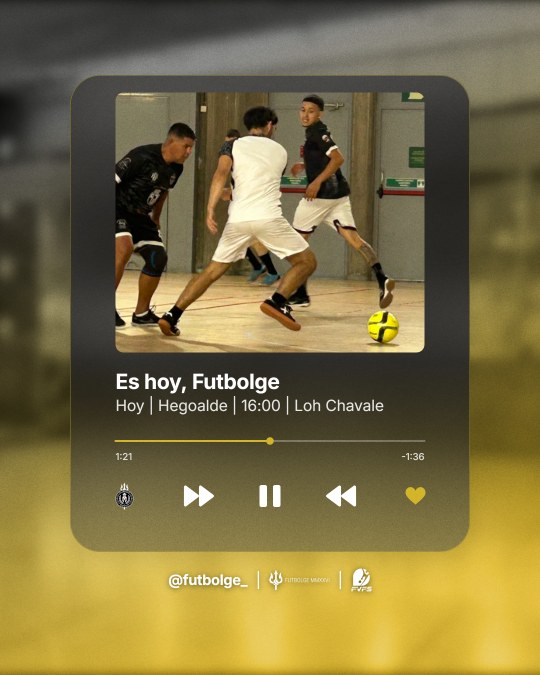
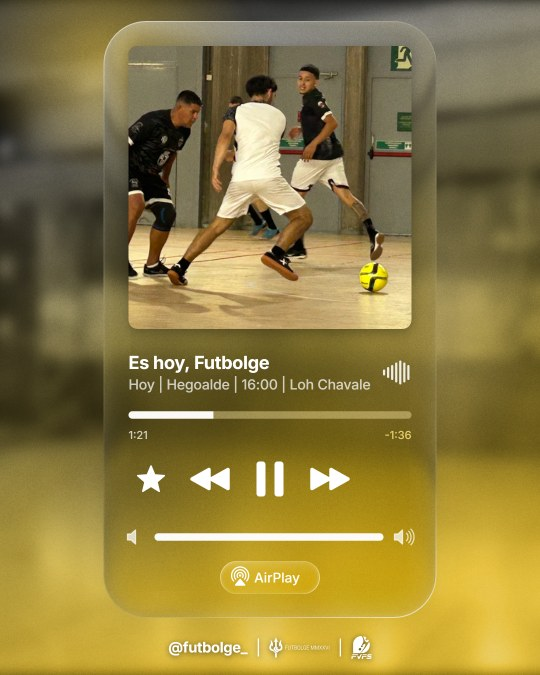
Match Day · Canción: reproductor estilo Apple Music con cristal líquido
Portada cuadrada, ecualizador, barra de progreso en cápsula, controles de
iOS con estrella, volumen y botón AirPlay. La tarjeta y el botón son de
cristal líquido: fondo refractado con labio en el borde y filo especular
suave. Datos del partido: Hegoalde, 16:00, Loh Chavale.

diff --git a/js/designs/match-day-cancion.js b/js/designs/match-day-cancion.js
@@ -1,16 +1,20 @@
 /**
  * DISEÑO · MATCH DAY · CANCIÓN
- * El partido como si fuera la canción que suena: tarjeta de cristal estilo reproductor
- * (foto, título, barra de progreso y controles) sobre el polideportivo desenfocado, en dorado y negro como el escudo.
+ * El partido como si fuera la canción que suena: tarjeta de cristal como el reproductor de Apple Music
+ * (portada, título, progreso, controles, volumen y AirPlay) sobre el polideportivo desenfocado,
+ * en dorado y negro como el escudo.
  */
-import { use, f, text, fit, contain, rr, slug, WHITE, GOLD } from "../core/draw.js";
+import { use, f, text, fit, rr, slug, WHITE } from "../core/draw.js";
 import { blurred, drawToned, FILTER_OK } from "../core/fx.js";
-import { grain } from "../core/canvas.js";
+import { grain, makeCanvas } from "../core/canvas.js";
 
 const W = 1080, H = 1350;
-const CARD = { x: 140, y: 150, w: 800, h: 954, r: 60 };
-const PHOTO = { x: 231, y: 185, w: 618, h: 520, r: 16 };
+const CARD = { x: 207, y: 42, w: 666, h: 1194, r: 86 };
+const PHOTO = { x: 257, y: 92, w: 566, h: 566, r: 18 };
+const L = PHOTO.x, R = PHOTO.x + PHOTO.w, CX = W / 2;
 const INTER = '"Inter", "Montserrat", system-ui, sans-serif';
+const DIM = "rgba(255,255,255,.72)";          // gris translúcido de los textos secundarios
+const TINT = "rgba(244,220,120,.9)";          // el tiempo restante toma el color del fondo, como en iOS
 
 // imágenes pasadas a blanco (firma dorada, logos de color…), cacheadas por imagen
 const whites = new WeakMap();
@@ -28,42 +32,137 @@ function drawBg(ctx, bg, px, tone){
   else blurred(ctx, px, () => drawToned(ctx, bg.img, tone, bg.x, bg.y, bg.w, bg.h));
 }
 
-/* ---------- iconos del reproductor (blancos, con esquinas suaves) ---------- */
-function softFill(ctx, path){
-  ctx.save(); ctx.fillStyle = ctx.strokeStyle = WHITE; ctx.lineWidth = 6; ctx.lineJoin = "round";
+/* mancha de color difusa (los brillos que se cuelan por el cristal) */
+function glow(ctx, x, y, rx, ry, color){
+  ctx.save(); ctx.translate(x, y); ctx.scale(rx / 100, ry / 100);
+  const g = ctx.createRadialGradient(0, 0, 0, 0, 0, 100);
+  g.addColorStop(0, color); g.addColorStop(1, color.replace(/[\d.]+\)$/, "0)"));
+  ctx.fillStyle = g; ctx.fillRect(-100, -100, 200, 200); ctx.restore();
+}
+
+/* ---------- cristal líquido (Liquid Glass de iOS) ----------
+   Como el reproductor de Apple: el fondo se ve muy desenfocado, más luminoso y con los colores
+   avivados (cristal lechoso); en el borde hay un bisel grueso más claro donde el fondo se curva
+   (refracción) y un filo fino y brillante que destaca en las esquinas donde da la luz.
+   `src` es el fondo ya pintado (lienzo W×H). */
+function glass(ctx, src, x, y, w, h, r, o){
+  const cx = x + w / 2, cy = y + h / 2;
+  const sample = (z, b) => {
+    ctx.save(); if (FILTER_OK) ctx.filter = `blur(${b}px) saturate(1.45) brightness(1.06)`;
+    ctx.drawImage(src, cx - cx * z, cy - cy * z, W * z, H * z); ctx.restore();
+  };
+  ctx.save(); rr(x, y, w, h, r); ctx.clip();
+  sample(o.zoom, o.blur);
+  // labio del borde: anillos cada vez más ampliados (el fondo se estira hacia fuera, como en una lente)
+  // y más claros, sobre todo pegados al filo
+  const n = 28, band = o.edge / n;
+  for (let i = 0; i < n; i++){
+    const a = i * band, b = a + band, t = (n - i) / n;
+    ctx.save(); ctx.beginPath();
+    ctx.roundRect(x + a, y + a, w - a * 2, h - a * 2, Math.max(0, r - a));
+    ctx.roundRect(x + b, y + b, w - b * 2, h - b * 2, Math.max(0, r - b));
+    ctx.clip("evenodd");
+    sample(o.zoom + o.bend * t * t, o.blur * .5);
+    ctx.fillStyle = `rgba(255,255,255,${.01 + .08 * t ** 2.4})`; ctx.fillRect(x, y, w, h);
+    ctx.restore();
+  }
+  // velo lechoso y, encima, un tono neutro para que el texto blanco se lea
+  ctx.fillStyle = "rgba(255,255,255,.06)"; ctx.fillRect(x, y, w, h);
+  ctx.fillStyle = o.tint; ctx.fillRect(x, y, w, h);
+  const sh = ctx.createLinearGradient(0, y, 0, y + h);
+  sh.addColorStop(0, "rgba(255,255,255,.12)"); sh.addColorStop(.4, "rgba(255,255,255,0)");
+  ctx.fillStyle = sh; ctx.fillRect(x, y, w, h);
+  // resplandor interior junto al borde, más fuerte arriba a la izquierda y abajo a la derecha
+  const glowW = Math.min(w, h) * .07;
+  const ig = ctx.createLinearGradient(x, y, x + w, y + h);
+  ig.addColorStop(0, "rgba(255,255,255,.16)"); ig.addColorStop(.3, "rgba(255,255,255,.02)");
+  ig.addColorStop(.7, "rgba(255,255,255,.02)"); ig.addColorStop(1, "rgba(255,255,255,.14)");
+  ctx.save(); if (FILTER_OK) ctx.filter = `blur(${glowW * .5}px)`;
+  ctx.strokeStyle = ig; ctx.lineWidth = glowW; rr(x, y, w, h, r); ctx.stroke(); ctx.restore();
+  ctx.restore();
+  // filo especular: nítido y muy brillante en las esquinas donde da la luz, casi invisible en los lados,
+  // con un halo suave debajo
+  const rim = ctx.createLinearGradient(x, y, x + w, y + h);
+  rim.addColorStop(0, "rgba(255,255,255,.55)"); rim.addColorStop(.16, "rgba(255,255,255,.16)");
+  rim.addColorStop(.5, "rgba(255,255,255,.06)"); rim.addColorStop(.84, "rgba(255,255,255,.16)"); rim.addColorStop(1, "rgba(255,255,255,.7)");
+  const lw = o.rim || 2;
+  ctx.save(); rr(x, y, w, h, r); ctx.clip(); if (FILTER_OK) ctx.filter = `blur(${lw * 2}px)`; ctx.globalAlpha = .25;
+  ctx.strokeStyle = rim; ctx.lineWidth = lw * 3; rr(x + lw, y + lw, w - lw * 2, h - lw * 2, r - lw); ctx.stroke(); ctx.restore();
+  ctx.strokeStyle = rim; ctx.lineWidth = lw; rr(x + lw / 2, y + lw / 2, w - lw, h - lw, r - lw / 2); ctx.stroke();
+}
+
+/* ---------- iconos del reproductor (como los de iOS: macizos y con esquinas suaves) ---------- */
+function softFill(ctx, path, color = WHITE, round = 7){
+  ctx.save(); ctx.fillStyle = ctx.strokeStyle = color; ctx.lineWidth = round; ctx.lineJoin = "round";
   path(); ctx.fill(); ctx.stroke(); ctx.restore();
 }
-/* dos triángulos seguidos; dir = 1 apunta a la derecha (avanzar), -1 a la izquierda (retroceder) */
+/* dos triángulos seguidos; dir = 1 avanzar, -1 retroceder */
 function skip(ctx, cx, cy, dir){
-  const tw = 30, th = 42 / 2 - 3;
+  const tw = 38, th = 19;
   softFill(ctx, () => {
     ctx.beginPath();
     for (const k of [-1, 0]){
-      const x0 = cx + dir * (k * tw + 3), x1 = x0 + dir * (tw - 6);
+      const x0 = cx + dir * (k * tw + 3), x1 = x0 + dir * (tw - 4);
       ctx.moveTo(x0, cy - th); ctx.lineTo(x1, cy); ctx.lineTo(x0, cy + th); ctx.closePath();
     }
   });
 }
 function pause(ctx, cx, cy){
   ctx.fillStyle = WHITE;
-  for (const x of [cx - 21, cx + 6]){ rr(x, cy - 22, 15, 44, 4); ctx.fill(); }
+  for (const x of [cx - 27, cx + 9]){ rr(x, cy - 35, 18, 70, 6); ctx.fill(); }
 }
-function heart(ctx, cx, cy, s, color = WHITE){
-  ctx.save(); ctx.translate(cx, cy); ctx.scale(s / 32, s / 32); ctx.fillStyle = color;
+/* estrella de favoritos, rellena (marcada) y con las puntas suaves */
+function star(ctx, cx, cy, R){
+  ctx.save(); ctx.fillStyle = ctx.strokeStyle = WHITE; ctx.lineWidth = 3; ctx.lineJoin = "round";
   ctx.beginPath();
-  ctx.moveTo(0, 13);
-  ctx.bezierCurveTo(-4, 9, -16, 1, -16, -6); ctx.bezierCurveTo(-16, -12, -12, -15, -8, -15);
-  ctx.bezierCurveTo(-4, -15, -1, -12, 0, -9); ctx.bezierCurveTo(1, -12, 4, -15, 8, -15);
-  ctx.bezierCurveTo(12, -15, 16, -12, 16, -6); ctx.bezierCurveTo(16, 1, 4, 9, 0, 13);
-  ctx.fill(); ctx.restore();
+  for (let i = 0; i < 10; i++){
+    const a = -Math.PI / 2 + i * Math.PI / 5, rad = i % 2 ? R * .45 : R;
+    ctx.lineTo(cx + Math.cos(a) * rad, cy + Math.sin(a) * rad);
+  }
+  ctx.closePath(); ctx.fill(); ctx.stroke(); ctx.restore();
 }
+/* barras de ecualizador junto al título (la canción está sonando) */
+function waveform(ctx, right, cy){
+  const hs = [12, 22, 30, 40, 48, 40, 30], bw = 4.5, gap = 3.6;
+  let x = right - hs.length * (bw + gap) + gap;
+  ctx.fillStyle = "rgba(255,255,255,.88)";
+  hs.forEach(h => { rr(x, cy - h / 2, bw, h, bw / 2); ctx.fill(); x += bw + gap; });
+}
+/* altavoz con 0, 1 o 3 ondas */
+function speaker(ctx, cx, cy, waves){
+  ctx.save(); ctx.fillStyle = ctx.strokeStyle = DIM; ctx.lineJoin = "round"; ctx.lineWidth = 2.5;
+  ctx.beginPath(); ctx.moveTo(cx - 12, cy - 6); ctx.lineTo(cx - 5, cy - 6); ctx.lineTo(cx + 4, cy - 14); ctx.lineTo(cx + 4, cy + 14); ctx.lineTo(cx - 5, cy + 6); ctx.lineTo(cx - 12, cy + 6); ctx.closePath();
+  ctx.fill(); ctx.stroke();
+  ctx.lineCap = "round";
+  for (let i = 1; i <= waves; i++){ ctx.beginPath(); ctx.arc(cx + 4, cy, 5 + i * 6, -Math.PI / 4.2, Math.PI / 4.2); ctx.stroke(); }
+  ctx.restore();
+}
+/* icono de AirPlay: ondas concéntricas con un triángulo debajo */
+function airplay(ctx, cx, cy){
+  ctx.save(); ctx.strokeStyle = ctx.fillStyle = WHITE; ctx.lineWidth = 2.6; ctx.lineCap = "round";
+  for (const r of [6, 11.5, 17]){ ctx.beginPath(); ctx.arc(cx, cy - 2, r, Math.PI * .78, Math.PI * 2.22); ctx.stroke(); }
+  ctx.beginPath(); ctx.arc(cx, cy - 2, 2.4, 0, Math.PI * 2); ctx.fill();
+  softFill(ctx, () => { ctx.beginPath(); ctx.moveTo(cx, cy + 6); ctx.lineTo(cx + 9, cy + 17); ctx.lineTo(cx - 9, cy + 17); ctx.closePath(); }, WHITE, 3);
+  ctx.restore();
+}
+/* barra en cápsula: parte llena en blanco y el resto translúcido */
+function capsule(ctx, x0, x1, y, h, p, rest){
+  rr(x0, y - h / 2, x1 - x0, h, h / 2); ctx.fillStyle = rest; ctx.fill();
+  const xf = x0 + (x1 - x0) * p;
+  if (xf > x0){
+    ctx.save(); rr(x0, y - h / 2, x1 - x0, h, h / 2); ctx.clip();
+    ctx.fillStyle = "rgba(255,255,255,.95)"; ctx.fillRect(x0, y - h / 2, xf - x0, h);
+    ctx.restore();
+  }
+}
+const pct = v => Math.min(1, Math.max(0, (Number(v) || 0) / 100));
 
 export default {
   id: "match-day-cancion",
   name: "Match Day",
   variant: "Canción",
   category: "Día de partido",
-  description: "El partido como la canción que suena: reproductor de cristal sobre el polideportivo desenfocado.",
+  description: "El partido como la canción que suena: reproductor de cristal estilo Apple Music sobre el polideportivo desenfocado.",
   thumb: "assets/thumbs/match-day-cancion.jpg",
   size: { w: W, h: H },
   filename: v => `match_day_cancion_${slug(v.rival)}.png`,
@@ -82,20 +181,21 @@ export default {
         { type: "text", id: "rival", label: "Rival", value: "Loh Chavale" }
       ]},
       { type: "hint", text: "El subtítulo une Día | Lugar | Hora | Rival; deja un campo vacío para quitarlo." },
-      { type: "range", id: "progress", label: "Progreso de la canción", value: 50, min: 0, max: 100 },
+      { type: "range", id: "progress", label: "Progreso de la canción", value: 30, min: 0, max: 100 },
       { type: "row", fields: [
         { type: "text", id: "tA", label: "Tiempo izquierda", value: "1:21" },
         { type: "text", id: "tR", label: "Tiempo derecha", value: "-1:36" }
-      ]}
+      ]},
+      { type: "range", id: "volume", label: "Volumen", value: 100, min: 0, max: 100 },
+      { type: "text", id: "pill", label: "Botón de abajo", value: "AirPlay" }
     ]},
     { type: "section", title: "Fotos", fields: [
-      { type: "photo", id: "photo", label: "Foto de la canción", src: "assets/fotos/jugada_pista.png",
-        area: () => PHOTO,
-        defaultFrame: (img, a, cover) => ({ zoom: 1, ox: a.x + (a.w - img.width * cover) / 2, oy: a.y + a.h * .5 - img.height * cover * .48 }) },
+      { type: "photo", id: "photo", label: "Foto de la canción (portada)", src: "assets/fotos/jugada_pista.png",
+        area: () => PHOTO },
       { type: "photo", id: "bg", label: "Fondo (polideportivo)", src: "assets/fotos/polideportivo.jpg",
         area: () => ({ x: 0, y: 0, w: W, h: H }),
         defaultFrame: (img, a, cover) => ({ zoom: 1, ox: a.w * .5 - img.width * cover * .62, oy: 0 }) },
-      { type: "range", id: "bgBlur", label: "Desenfoque del fondo", value: 12, min: 0, max: 40 },
+      { type: "range", id: "bgBlur", label: "Desenfoque del fondo", value: 14, min: 0, max: 40 },
       { type: "range", id: "warm", label: "Tono dorado", value: 70, min: 0, max: 100 }
     ]},
     { type: "section", title: "Escudo y pie", collapsed: true, fields: [
@@ -113,90 +213,105 @@ export default {
     const v = m.values, I = m.images, warm = (Number(v.warm) || 0) / 100;
     const bg = m.photo("bg");
 
-    // fondo: polideportivo desenfocado, en blanco y negro oscurecido y con un degradado dorado hacia abajo
-    ctx.fillStyle = "#1a1810"; ctx.fillRect(0, 0, W, H);
-    if (bg) drawBg(ctx, bg, Number(v.bgBlur) || 0, "grayscale(1) contrast(1.05)");
-    const dk = ctx.createLinearGradient(0, 0, 0, H);
+    // fondo en un lienzo aparte: se pinta tal cual y el cristal lo vuelve a usar para refractarlo
+    const B = makeCanvas(W, H, ctx.__q || 1), g = B.ctx;
+    // polideportivo desenfocado, en blanco y negro oscurecido y con un degradado dorado hacia abajo
+    g.fillStyle = "#1a1810"; g.fillRect(0, 0, W, H);
+    if (bg) drawBg(g, bg, Number(v.bgBlur) || 0, "grayscale(1) contrast(1.05)");
+    const dk = g.createLinearGradient(0, 0, 0, H);
     dk.addColorStop(0, "rgba(8,8,6,.5)"); dk.addColorStop(.6, "rgba(8,8,6,.3)"); dk.addColorStop(1, "rgba(8,8,6,0)");
-    ctx.fillStyle = dk; ctx.fillRect(0, 0, W, H);
-    const wg = ctx.createLinearGradient(0, H * .2, W * .35, H);
+    g.fillStyle = dk; g.fillRect(0, 0, W, H);
+    const wg = g.createLinearGradient(0, H * .2, W * .35, H);
     wg.addColorStop(0, "rgba(211,181,42,0)"); wg.addColorStop(.5, `rgba(211,181,42,${.45 * warm})`); wg.addColorStop(1, `rgba(226,190,40,${warm})`);
     // «color» tiñe de dorado conservando las luces del pabellón; «multiply» le da cuerpo y el normal lo aviva
     for (const [op, a] of [["color", 1], ["multiply", .55], ["source-over", .45]]){
-      ctx.save(); ctx.globalCompositeOperation = op; ctx.globalAlpha = a; ctx.fillStyle = wg; ctx.fillRect(0, 0, W, H); ctx.restore();
+      g.save(); g.globalCompositeOperation = op; g.globalAlpha = a; g.fillStyle = wg; g.fillRect(0, 0, W, H); g.restore();
     }
 
-    // escudo arriba a la derecha
+    // manchas de luz y sombra alrededor de la tarjeta: lo que el cristal deja ver y curva en el borde
+    // (en el reproductor de Apple son los colores de la pantalla de detrás)
+    glow(g, CARD.x + 10, CARD.y + 70, 300, 240, `rgba(240,200,56,${.35 + .3 * warm})`);
+    glow(g, CARD.x + CARD.w - 30, CARD.y + CARD.h * .5, 230, 320, "rgba(255,232,170,.32)");
+    glow(g, CARD.x + 80, CARD.y + CARD.h * .78, 240, 220, "rgba(0,0,0,.38)");
+    glow(g, CARD.x + CARD.w * .78, CARD.y + CARD.h * .96, 300, 200, `rgba(240,196,40,${.15 + .2 * warm})`);
+    ctx.drawImage(B.cv, 0, 0, W, H);
+
+    // escudo arriba a la derecha (opcional)
     if (v.crestTop && I.crest){
       const ch = 104, cw = I.crest.width * ch / I.crest.height;
       ctx.save(); ctx.globalAlpha = .92; ctx.drawImage(I.crest, W - 34 - cw, 26, cw, ch); ctx.restore();
     }
 
-    // tarjeta de cristal: sombra suave, fondo muy desenfocado y velo negro con reflejo dorado abajo
-    ctx.save(); ctx.shadowColor = "rgba(0,0,0,.45)"; ctx.shadowBlur = 50; ctx.shadowOffsetY = 18;
-    ctx.fillStyle = "rgba(10,10,8,.25)"; rr(CARD.x, CARD.y, CARD.w, CARD.h, CARD.r); ctx.fill();
+    // tarjeta de cristal líquido: sombra suave debajo y la lente encima
+    ctx.save(); ctx.shadowColor = "rgba(0,0,0,.35)"; ctx.shadowBlur = 50; ctx.shadowOffsetY = 18;
+    ctx.fillStyle = "rgba(0,0,0,.2)"; rr(CARD.x, CARD.y, CARD.w, CARD.h, CARD.r); ctx.fill();
     ctx.restore();
-    ctx.save(); rr(CARD.x, CARD.y, CARD.w, CARD.h, CARD.r); ctx.clip();
-    if (bg) drawBg(ctx, bg, 40, "grayscale(1)");
-    const cg = ctx.createLinearGradient(0, CARD.y, 0, CARD.y + CARD.h);
-    cg.addColorStop(0, "rgba(12,11,8,.74)"); cg.addColorStop(.6, "rgba(16,14,9,.74)"); cg.addColorStop(1, `rgba(${50 + 90 * warm | 0},${44 + 74 * warm | 0},${10 + 12 * warm | 0},.74)`);
-    ctx.fillStyle = cg; ctx.fillRect(CARD.x, CARD.y, CARD.w, CARD.h);
-    const sheen = ctx.createLinearGradient(CARD.x, CARD.y, CARD.x + CARD.w * .6, CARD.y + CARD.h * .5);
-    sheen.addColorStop(0, "rgba(255,255,255,.07)"); sheen.addColorStop(1, "rgba(255,255,255,0)");
-    ctx.fillStyle = sheen; ctx.fillRect(CARD.x, CARD.y, CARD.w, CARD.h);
-    ctx.restore();
-    ctx.strokeStyle = "rgba(211,181,42,.4)"; ctx.lineWidth = 1.5; rr(CARD.x + .75, CARD.y + .75, CARD.w - 1.5, CARD.h - 1.5, CARD.r); ctx.stroke();
+    glass(ctx, B.cv, CARD.x, CARD.y, CARD.w, CARD.h, CARD.r, { zoom: 1.03, blur: 24, edge: 54, bend: .2, tint: "rgba(22,20,14,.24)", rim: 2 });
 
-    // foto de la "canción"
+    // portada cuadrada
     const ph = m.photo("photo");
+    ctx.save(); ctx.shadowColor = "rgba(0,0,0,.3)"; ctx.shadowBlur = 24; ctx.shadowOffsetY = 8;
+    ctx.fillStyle = "#14130e"; rr(PHOTO.x, PHOTO.y, PHOTO.w, PHOTO.h, PHOTO.r); ctx.fill();
+    ctx.restore();
     ctx.save(); rr(PHOTO.x, PHOTO.y, PHOTO.w, PHOTO.h, PHOTO.r); ctx.clip();
-    ctx.fillStyle = "#14130e"; ctx.fillRect(PHOTO.x, PHOTO.y, PHOTO.w, PHOTO.h);
     if (ph) ctx.drawImage(ph.img, ph.x, ph.y, ph.w, ph.h);
     ctx.restore();
 
-    // título y subtítulo
-    const L = PHOTO.x, R = PHOTO.x + PHOTO.w;
+    // título (blanco) y subtítulo (gris), con el ecualizador a la derecha
+    const tw = PHOTO.w - 80;
     const title = String(v.title || "").trim();
-    if (title) text(title, L, 778, f(700, fit(title, PHOTO.w, 700, 42, 26, -.6, INTER), INTER), WHITE, "left", -.6);
+    if (title) text(title, L, 738, f(700, fit(title, tw, 700, 36, 24, -.5, INTER), INTER), WHITE, "left", -.5);
     const sub = [v.dia, v.lugar, v.hora, v.rival].map(s => String(s || "").trim()).filter(Boolean).join(" | ");
-    if (sub) text(sub, L, 822, f(400, fit(sub, PHOTO.w, 400, 31, 18, -.2, INTER), INTER), "rgba(255,255,255,.88)", "left", -.2);
+    if (sub) text(sub, L, 779, f(500, fit(sub, tw, 500, 33, 20, -.3, INTER), INTER), DIM, "left", -.3);
+    waveform(ctx, R - 4, 745);
 
-    // barra de progreso
-    const py = 882, p = Math.min(1, Math.max(0, (Number(v.progress) || 0) / 100)), kx = L + PHOTO.w * p;
-    ctx.lineCap = "round"; ctx.lineWidth = 4;
-    ctx.strokeStyle = "rgba(255,255,255,.28)"; ctx.beginPath(); ctx.moveTo(L, py); ctx.lineTo(R, py); ctx.stroke();
-    ctx.strokeStyle = GOLD; ctx.beginPath(); ctx.moveTo(L, py); ctx.lineTo(kx, py); ctx.stroke();
-    ctx.lineCap = "butt";
-    ctx.fillStyle = GOLD; ctx.beginPath(); ctx.arc(kx, py, 7.5, 0, Math.PI * 2); ctx.fill();
-    text(String(v.tA || ""), L, 920, f(500, 19, INTER), "rgba(255,255,255,.82)", "left");
-    text(String(v.tR || ""), R, 920, f(500, 19, INTER), "rgba(255,255,255,.82)", "right");
+    // barra de progreso gruesa, en cápsula y sin bola
+    capsule(ctx, L, R, 830, 15, pct(v.progress), "rgba(255,236,170,.42)");
+    text(String(v.tA || ""), L, 878, f(500, 22, INTER), DIM, "left");
+    text(String(v.tR || ""), R, 878, f(500, 22, INTER), TINT, "right");
 
-    // controles: escudo · avanzar · pausa · retroceder · corazón (en el mismo orden que el original)
-    const cy = 992;
-    if (I.crest) contain(I.crest, L + 18, cy, 40, 54);
-    skip(ctx, L + PHOTO.w * .27, cy, 1);
-    pause(ctx, L + PHOTO.w * .5, cy);
-    skip(ctx, L + PHOTO.w * .73, cy, -1);
-    heart(ctx, R - 18, cy + 1, 40, GOLD);
+    // controles: estrella · retroceder · pausa · avanzar (como en Apple Music)
+    const cy = 958;
+    star(ctx, CX - 238, cy + 2, 28);
+    skip(ctx, CX - 119, cy, -1);
+    pause(ctx, CX, cy);
+    skip(ctx, CX + 119, cy, 1);
+
+    // volumen
+    const vy = 1074;
+    speaker(ctx, L + 10, vy, 0);
+    capsule(ctx, L + 52, R - 56, vy, 15, pct(v.volume), "rgba(255,255,255,.3)");
+    speaker(ctx, R - 22, vy, 3);
+
+    // botón en cápsula (AirPlay)
+    const pill = String(v.pill || "").trim();
+    if (pill){
+      const font = f(500, 27, INTER); ctx.font = font;
+      const pw = ctx.measureText(pill).width + 108, py = 1155;
+      glass(ctx, B.cv, CX - pw / 2, py - 33, pw, 66, 33, { zoom: 1.06, blur: 18, edge: 14, bend: .12, tint: "rgba(22,20,14,.18)", rim: 1.5 });
+      airplay(ctx, CX - pw / 2 + 40, py - 2);
+      text(pill, CX - pw / 2 + 68, py + 10, font, WHITE, "left");
+    }
 
     // pie: texto | firma | competición, separados por barras finas
+    const FY = 1295;
     const items = [];
     const foot = String(v.foot || "").trim();
-    if (foot){ const font = f(700, 29, INTER); ctx.font = font; items.push({ w: ctx.measureText(foot).width + foot.length * -.5, draw: x => text(foot, x, 1170, font, WHITE, "left", -.5) }); }
+    if (foot){ const font = f(700, 29, INTER); ctx.font = font; items.push({ w: ctx.measureText(foot).width + foot.length * -.5, draw: x => text(foot, x, FY + 10, font, WHITE, "left", -.5) }); }
     const sig = v.showFirma && white(I.firma);
-    if (sig){ const h = 42, w = sig.width * h / sig.height; items.push({ w, draw: x => ctx.drawImage(sig, x, 1160 - h / 2, w, h) }); }
+    if (sig){ const h = 42, w = sig.width * h / sig.height; items.push({ w, draw: x => ctx.drawImage(sig, x, FY - h / 2, w, h) }); }
     const comp = v.showComp && white(I.comp);
-    if (comp){ const h = 46, w = comp.width * h / comp.height; items.push({ w, draw: x => ctx.drawImage(comp, x, 1160 - h / 2, w, h) }); }
+    if (comp){ const h = 46, w = comp.width * h / comp.height; items.push({ w, draw: x => ctx.drawImage(comp, x, FY - h / 2, w, h) }); }
     const GAP = 22, total = items.reduce((s, it) => s + it.w, 0) + GAP * 2 * Math.max(0, items.length - 1);
     let x = (W - total) / 2;
     ctx.save(); ctx.shadowColor = "rgba(0,0,0,.6)"; ctx.shadowBlur = 12; ctx.shadowOffsetY = 2;
     items.forEach((it, i) => {
-      if (i){ ctx.fillStyle = WHITE; ctx.fillRect(x + GAP - 1.25, 1142, 2.5, 36); x += GAP * 2; }
+      if (i){ ctx.fillStyle = WHITE; ctx.fillRect(x + GAP - 1.25, FY - 18, 2.5, 36); x += GAP * 2; }
       it.draw(x); x += it.w;
     });
     ctx.restore();
 
     // grano de película, como el original
-    ctx.save(); ctx.globalCompositeOperation = "overlay"; ctx.globalAlpha = .14; ctx.drawImage(grain(), 0, 0, W, H); ctx.restore();
+    ctx.save(); ctx.globalCompositeOperation = "overlay"; ctx.globalAlpha = .12; ctx.drawImage(grain(), 0, 0, W, H); ctx.restore();
   }
 };
